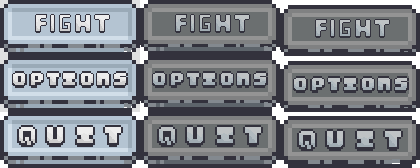
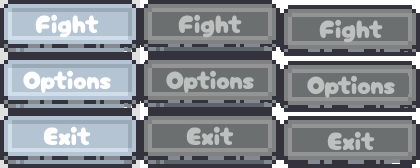
feat: option and game menu new text

diff --git a/src/utilz/HelpMethods.java b/src/utilz/HelpMethods.java
@@ -38,18 +38,18 @@ public class HelpMethods {
 			lmao = ((lmao / 64) - 4) * 64;	
 		}
 		int maxWidth = lvlData[0].length * Game.TILES_SIZE;
-		if (lmao >= (Game.GAME_WIDTH) - 256) {
-			if (x <= ((((int)getPlayer1().getHitbox().x/64)+1)*64) || x >= ((((int)getPlayer2().getHitbox().x/64)+1)*64)) {
-				System.out.println(((((int)getPlayer1().getHitbox().x/64) - 1)*64));
-				return true;
-			}
-		}
-		else if (lmao <= -Game.GAME_WIDTH + 320) {
-			if (x <= ((((int)getPlayer2().getHitbox().x/64)+1)*64) || x >= ((((int)getPlayer1().getHitbox().x/64)+1)*64)) {
-				System.out.println(((((int)getPlayer1().getHitbox().x/64) - 1)*64));
-				return true;
-			}
-		}
+		// if (lmao >= (Game.GAME_WIDTH) - 256) {
+		// 	if (x <= ((((int)getPlayer1().getHitbox().x/64)+1)*64) || x >= ((((int)getPlayer2().getHitbox().x/64)+1)*64)) {
+		// 		System.out.println(((((int)getPlayer1().getHitbox().x/64) - 1)*64));
+		// 		return true;
+		// 	}
+		// }
+		// else if (lmao <= -Game.GAME_WIDTH + 320) {
+		// 	if (x <= ((((int)getPlayer2().getHitbox().x/64)+1)*64) || x >= ((((int)getPlayer1().getHitbox().x/64)+1)*64)) {
+		// 		System.out.println(((((int)getPlayer1().getHitbox().x/64) - 1)*64));
+		// 		return true;
+		// 	}
+		// }
 		if (x < 0 || x >= maxWidth)
 			return true;
 		if (y < 0 || y >= Game.GAME_HEIGHT)
